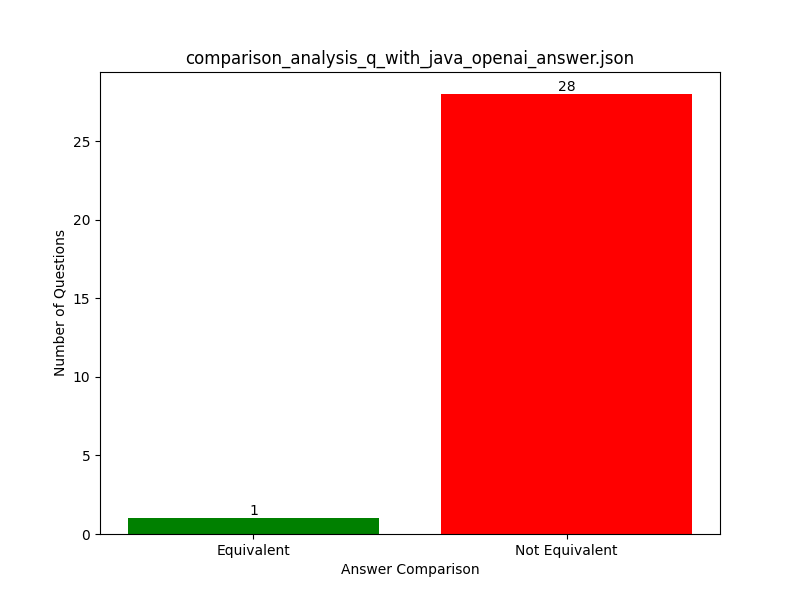
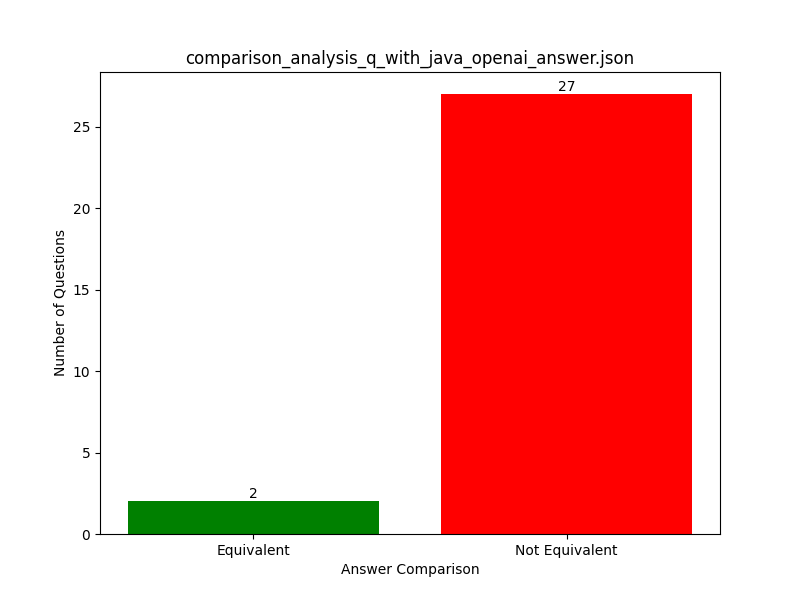
aggiunto sistema di analisi dei risultati e aggioranto tesi.docx

diff --git a/py/statistics.py b/py/statistics.py
@@ -2,7 +2,7 @@ import os
 import json
 import matplotlib.pyplot as plt
 
-def process_file(file_path):
+def analyze_a_equivalent(file_path):
     with open(file_path, 'r', encoding='utf-8') as f:
         data = json.load(f)
     
@@ -10,7 +10,7 @@ def process_file(file_path):
     not_equivalent_count = 0
     
     for item in data:
-        if item.get("Are the two answers equivalent?", "No") == "Yes":
+        if item.get("Are the two answers equivalent?", "No").lower().startswith("yes"):
             equivalent_count += 1
         else:
             not_equivalent_count += 1
@@ -50,12 +50,12 @@ def analyze_code_compilation(data):
                 if platform == "Answer ChatGpt":
                     chatgpt_has_code += 1
                     # Check if ChatGPT's code compiles
-                    if code_info.get("compile") == "Yes." or code_info.get("compile") == "Yes":
+                    if code_info.get("compile", "").lower().startswith("yes"):
                         chatgpt_code_compiles += 1
                 elif platform == "Answer StackOverflow":
                     stackoverflow_has_code += 1
                     # Check if StackOverflow's code compiles
-                    if code_info.get("compile") == "Yes." or code_info.get("compile") == "Yes":
+                    if code_info.get("compile", "").lower().startswith("yes"):
                         stackoverflow_code_compiles += 1
 
     return chatgpt_code_compiles, stackoverflow_code_compiles, chatgpt_has_code, stackoverflow_has_code
@@ -118,20 +118,46 @@ def write_summary(summary_file_path, equivalent_count=None, not_equivalent_count
             f.write(f"Comparison analysis summary:\n")
             f.write(f"Total questions: {total}\n")
             if total > 0:
-                f.write(f"Equivalent answers: {equivalent_count} ({(equivalent_count/total)*100:.2f}%)\n")
-                f.write(f"Not equivalent answers: {not_equivalent_count} ({(not_equivalent_count/total)*100:.2f}%)\n")
+                f.write(f"Equivalent answers: {equivalent_count} ({(equivalent_count / total) * 100:.2f}%)\n")
+                f.write(f"Not equivalent answers: {not_equivalent_count} ({(not_equivalent_count / total) * 100:.2f}%)\n")
             else:
                 f.write(f"No data available to calculate percentages.\n")
             f.write("\n")
         
         if compilation_results is not None:
             chatgpt_code_compiles, stackoverflow_code_compiles, chatgpt_has_code, stackoverflow_has_code = compilation_results
+            if chatgpt_has_code > 0:
+                chatgpt_compile_percentage = (chatgpt_code_compiles / chatgpt_has_code) * 100
+            else:
+                chatgpt_compile_percentage = 0.0
+
+            if stackoverflow_has_code > 0:
+                stackoverflow_compile_percentage = (stackoverflow_code_compiles / stackoverflow_has_code) * 100
+            else:
+                stackoverflow_compile_percentage = 0.0
+            
             f.write(f"Code compilation and existence analysis summary:\n")
-            f.write(f"ChatGPT: code exists in {chatgpt_has_code} instances, of which {chatgpt_code_compiles} compile successfully.\n")
-            f.write(f"StackOverflow: code exists in {stackoverflow_has_code} instances, of which {stackoverflow_code_compiles} compile successfully.\n")
+            f.write(f"ChatGPT: code exists in {chatgpt_has_code} instances, of which {chatgpt_code_compiles} compile successfully ({chatgpt_compile_percentage:.2f}%).\n")
+            f.write(f"StackOverflow: code exists in {stackoverflow_has_code} instances, of which {stackoverflow_code_compiles} compile successfully ({stackoverflow_compile_percentage:.2f}%).\n")
             f.write("\n")
 
-
+def process_file(file_path, compile=False):
+    if not os.path.isfile(file_path):
+        return
+    
+    base_name = os.path.basename(file_path)
+    dir_name = os.path.dirname(file_path)
+    
+    if compile:
+        with open(file_path, 'r', encoding='utf-8') as f:
+            data = json.load(f)
+        compilation_results = analyze_code_compilation(data)
+        plot_results_compilation(compilation_results, os.path.join(dir_name, f"compilation_analysis_{base_name.replace('.json', '.png')}"))
+        write_summary(os.path.join(dir_name, f"summary_{base_name.replace('.json', '.txt')}"), compilation_results = compilation_results)
+    else:
+        equivalent, not_equivalent = analyze_a_equivalent(file_path)
+        plot_results_comparison(equivalent, not_equivalent, f"comparison_analysis_{base_name}", os.path.join(dir_name, f"plot_{base_name.replace('.json', '.png')}"))
+        write_summary(os.path.join(dir_name, f"summary_{base_name.replace('.json', '.txt')}"), equivalent_count = equivalent, not_equivalent_count = not_equivalent)
 
 def main():
     file_paths_equivalent = [
@@ -139,47 +165,20 @@ def main():
         'q_longer_than/long_q_openai_answer.json'
     ]
     
-    file_paths_compile = [
-        'qa_with_codes/qa_with_codes_openai_answer.json'
-    ]
-    
-    directory_path_q_tfidf_terms = 'q_for_tfidf_term/'
+    file_paths_compile = ['qa_with_codes/qa_with_codes_openai_answer.json']
 
+    directory_path_q_tfidf_terms = 'q_for_tfidf_term/'
     if os.path.isdir(directory_path_q_tfidf_terms):
         file_paths_equivalent.extend(
             os.path.join(directory_path_q_tfidf_terms, filename)
             for filename in os.listdir(directory_path_q_tfidf_terms)
             if filename.endswith('.json') and 'openai' in filename
         )
-
     for file_path in file_paths_equivalent:
-        if os.path.isfile(file_path):
-            equivalent, not_equivalent = process_file(file_path)
-            plot_results_comparison(
-                equivalent, 
-                not_equivalent, 
-                f"comparison_analysis_{os.path.basename(file_path)}", 
-                os.path.join(os.path.dirname(file_path), f"plot_{os.path.basename(file_path).replace('.json', '.png')}")
-            )
-            write_summary(
-                os.path.join(os.path.dirname(file_path), f"summary_{os.path.basename(file_path).replace('.json', '.txt')}"),
-                equivalent_count=equivalent,
-                not_equivalent_count=not_equivalent
-            )
+        process_file(file_path, compile = False)
 
     for file_path in file_paths_compile:
-        if os.path.isfile(file_path):
-            with open(file_path, 'r', encoding='utf-8') as f:
-                data = json.load(f)
-            compilation_results = analyze_code_compilation(data)
-            plot_results_compilation(
-                compilation_results, 
-                os.path.join(os.path.dirname(file_path), f"compilation_analysis_{os.path.basename(file_path).replace('.json', '.png')}")
-            )
-            write_summary(
-                os.path.join(os.path.dirname(file_path), f"summary_{os.path.basename(file_path).replace('.json', '.txt')}"),
-                compilation_results=compilation_results
-            )
+        process_file(file_path, compile = True)
 
 if __name__ == "__main__":
     main()
